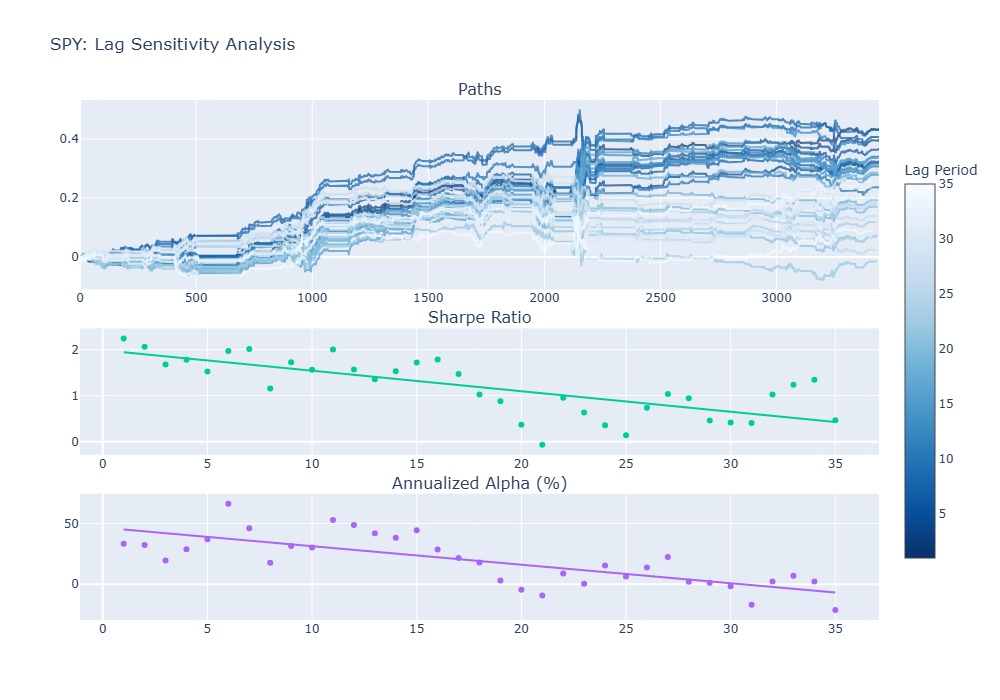
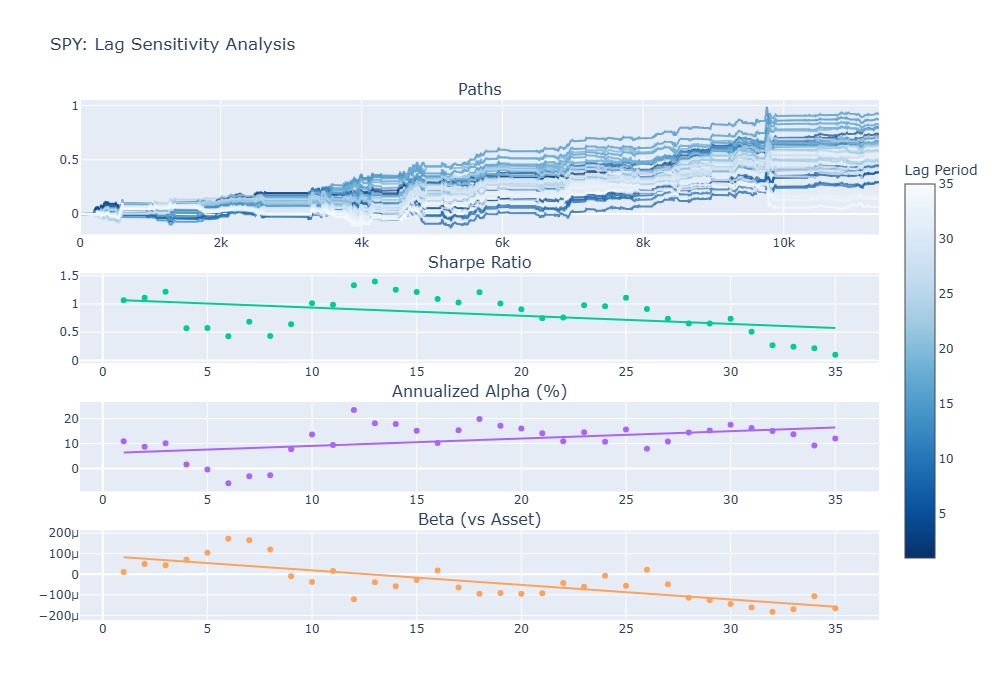
Re-run backtest

Changed region(s): [[0.031, 0.15, 0.899, 0.9], [0.062, 0.18, 0.093, 0.24]]

diff --git a/readme.md b/readme.md
@@ -2,31 +2,69 @@
 
 ## Idea
 
-This strategy is an intraday mean-reversion system triggered by volatility extremes. It calculates price bands based on implied volatility (the market's expected daily move) and only enters trades when the IV Z-score is high, indicating an environment of elevated fear. Positions are initiated when the price dips below the lower band and begins to recover, or peaks above the upper band and starts to fade. Once a trade is active, an ATR-based trailing stop manages the exit, locking in gains as the price moves favorably without utilizing a fixed profit target.
+This strategy is an intraday mean-reversion system triggered by volatility extremes. It calculates price bands based on implied volatility (the market's expected daily move) and only enters trades when the IV Z-score is high, indicating an environment of elevated fear. Positions are initiated when the price dips below the lower band and begins to recover, or peaks above the upper band and starts to fade. Once a trade is active, an ATR-based trailing stop manages the exit, locking in gains as the price moves favourably without utilizing a fixed profit target.
 
 ## Backtest
 
-The strategy was backtested on 30m candlestick data, and daily historical options chain data from the S&P500 (SPY) over a 2-year period.
+The strategy was backtested on 1-hour candlestick data and daily historical options chain data for the S&P 500 (SPY) from January 2020 to January 2026.
 
 ### Performance Summary
 
-The strategy delivers a total return of 65.17% with an annualized return of 29.33%, significantly outperforming the SPY buy-and-hold benchmark of 20.30%. It achieves this with a substantially reduced maximum drawdown of -7.07% compared to the market's -19.43%. The high Sharpe Ratio of 2.54 and Sortino Ratio of 2.67 indicate that the system provides high risk-adjusted returns by successfully timing entries during high-volatility "fear" events and managing exits via an ATR-based trailing stop.
-
 ![Strategy Performance](fig/SPY_strategy.jpg)
+
+| Metric                    | Buy & Hold | Strategy |
+| :------------------------ | ---------: | -------: |
+| **Total Return**          |    109.07% |  103.38% |
+| **Max Drawdown**          |    -26.93% |  -10.39% |
+| **Sharpe Ratio**          |       0.78 |     1.06 |
+| **Annualized Volatility** |     15.52% |   10.96% |
+| **Annualized Alpha**      |            |   10.03% |
+| **Beta (vs Asset)**       |            |     0.13 |
+
+#### Key Insights
+
+- **Risk Mitigation:** The strategy reduced the maximum drawdown by over 60% compared to the benchmark, maintaining a -10.39% floor against the market's -26.93%.
+- **Efficiency:** With a Sharpe Ratio of 1.06, the system captured 95% of the total market return while operating with 30% less annualized volatility than the SPY.
+- **Low Correlation:** A Beta of 0.13 indicates the strategy decoupled from standard market swings, relying on mean reversion during volatility spikes rather than directional momentum.
+- **Macro Resilience:** The system successfully navigated three distinct regimes: the 2020 pandemic crash, the 2022 inflationary bear market, and the 2025 "AI bubble" volatility. By exiting during regime shifts via ATR trailing stops, it avoided the deep drawdowns typical of buy-and-hold during these periods.
 
 ### Robustness and Execution
 
-The strategy shows high structural stability across multiple tests. The parameter sensitivity heatmaps reveal broad "clusters" of profitability, suggesting the results are not the product of over-optimization or "curve-fitting." Because the data uses 30-minute candles, the lag sensitivity analysis confirms the strategy is not overly dependent on high-speed execution; the edge remains viable even if entries are delayed by several hours. Additionally, Monte Carlo simulations show the realized strategy path aligns with the 50th percentile of expected outcomes, reinforcing that the performance is statistically representative rather than an outlier.
+#### 1. Monte Carlo Simulation
 
-![Monte Carlo Simulation of Strategy Returns](fig/SPY_monte_carlo.jpg)
+![](fig/SPY_strategy.jpg)
 
-![Lag Sensitivity Analysis](fig/SPY_lag_sensitivity.jpg)
+The strategy was run through 1,000 randomized simulations to test the stability of the equity curve.
 
-![Parameter Sensitivity Analysis](fig/SPY_parameter_sensitivity.jpg)
+- **Path Consistency:** The realized strategy path closely tracks the **50th percentile** of simulated outcomes, indicating the results are representative of average expectations rather than an outlier.
+- **Drawdown Reliability:** Realized drawdowns remained well within the expected distribution, significantly outperforming the 95th percentile of simulated market failures.
+
+#### 2. Lag Sensitivity
+
+![](fig/SPY_lag_sensitivity.jpg)
+
+The strategy was tested with execution delays of up to 35 periods to ensure it does not rely on immediate timing.
+
+- **Sharpe Resilience:** The Sharpe Ratio remains robust even under significant execution lag, confirming that the risk-adjusted edge is driven by persistent regime shifts rather than perfect timing.
+- **Alpha Persistence:** Annualized alpha remains positive even with significant delays, showing the signals capture broad regime shifts rather than fleeting price noise.
+- **Stable Beta:** The strategy maintains a consistently low beta regardless of execution lag, confirming its defensive nature is a structural feature of the logic.
+
+#### 3. Parameter Stability
+
+![](fig/SPY_parameter_sensitivity.jpg)
+
+Sensitivity heatmaps were used to check if the strategy depends on "perfect" settings.
+
+- **Broad Profitability:** The system maintains a positive Sharpe Ratio across a wide range of ATR periods and Z-score thresholds.
+- **Optimal Zones:** Performance is most consistent with **ATR multipliers between 1.5 and 2.0**, suggesting the strategy is robust to minor parameter changes.
 
 ## Setup
 
-```shell
-$ pip install -r requirements.txt
-$ dolt --data-dir ./db sql -f setup.sql <-- Clones and sets up indexes on Dolt post-no-preference/options repository.
+```bash
+# Install dependencies
+pip install -r requirements.txt
+
+# Setup Dolt database and indexes
+dolt --data-dir ./db sql -f setup.sql
+dolt --data-dir ./db sql-server
 ```
